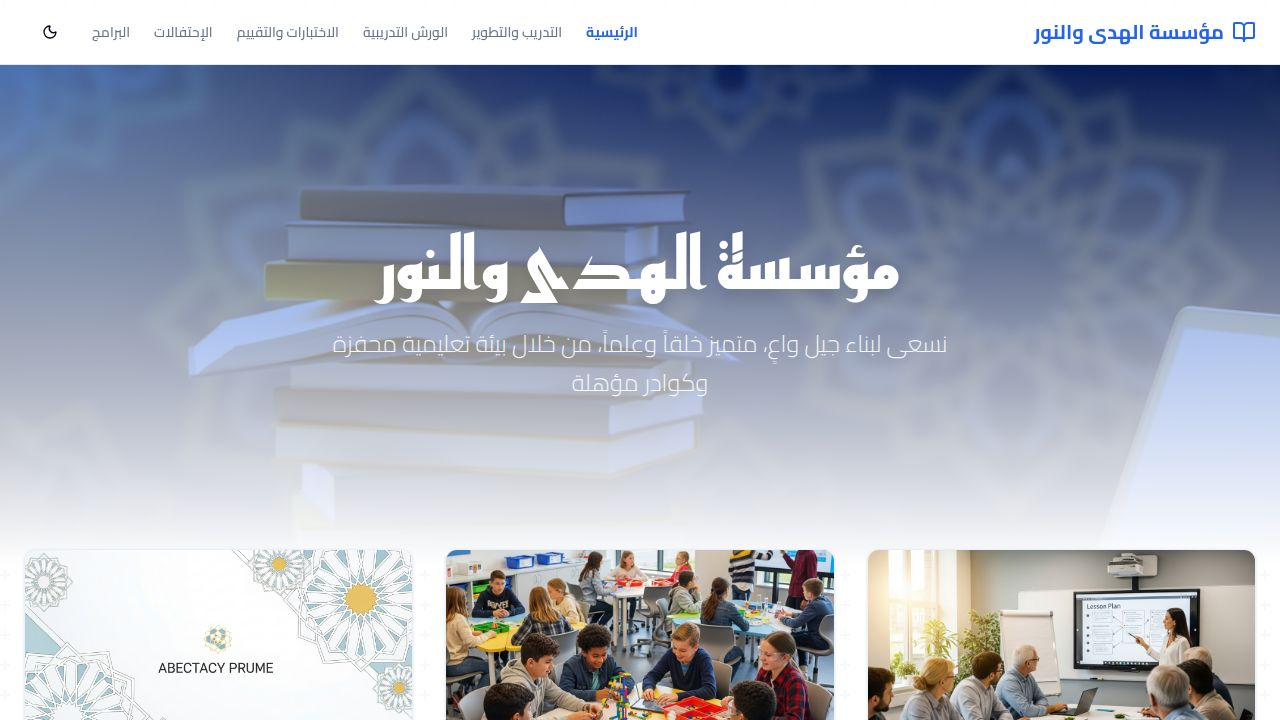
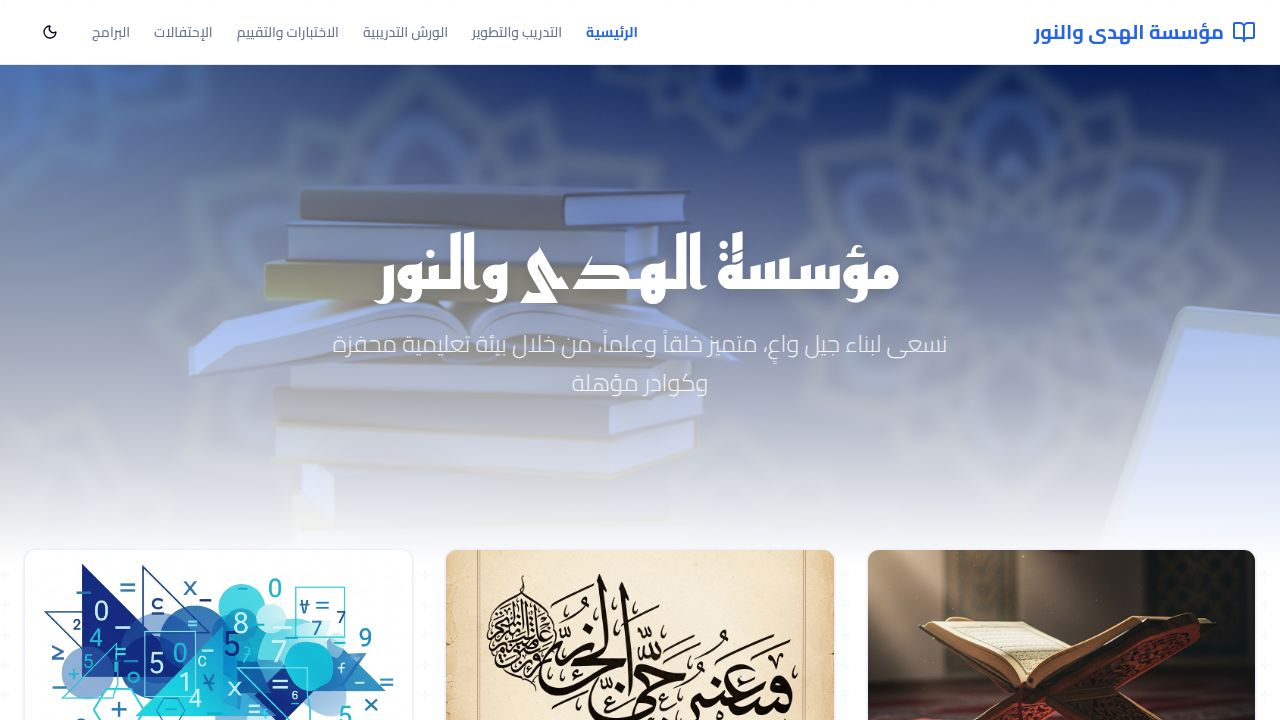
Add new math and English language programs to the website
Introduce new dedicated pages for the Math and English language programs, and integrate them into the homepage and existing programs section.

Replit-Commit-Author: Agent
Replit-Commit-Session-Id: f1f99f2d-2513-4309-bce2-7881e0cd783c
Replit-Commit-Checkpoint-Type: full_checkpoint
Replit-Commit-Event-Id: 9ba4aec5-4840-4cda-b15b-17224bb35dad
Replit-Commit-Screenshot-Url: https://storage.googleapis.com/screenshot-production-us-central1/aac735b9-379b-4b00-9164-096948885b5b/f1f99f2d-2513-4309-bce2-7881e0cd783c/re5x4Rj
Replit-Helium-Checkpoint-Created: true

Changed region(s): [[0.0, 0.7639, 1.0, 1.0]]

diff --git a/client/src/pages/Programs.tsx b/client/src/pages/Programs.tsx
@@ -6,9 +6,42 @@ import { Card, CardContent, CardHeader, CardTitle } from "@/components/ui/card";
 import { ArrowLeft } from "lucide-react";
 import arabicImg from "@assets/generated_images/arabic_calligraphy_art.png";
 import quranImg from "@assets/generated_images/quran_on_a_wooden_stand.png";
+import mathImg from "@assets/generated_images/mathematics_education_background_with_geometric_shapes.png";
+import englishImg from "@assets/generated_images/english_language_education_background_with_books_and_alphabets.png";
 import { WhatsAppButton } from "@/components/WhatsAppButton";
 
 export default function Programs() {
+  const programs = [
+    {
+      title: "برنامج القرآن الكريم",
+      image: quranImg,
+      href: "/programs/quran",
+      description: "حفظ وتلاوة وتدبر القرآن الكريم على يد نخبة من المشايخ والمحفظين.",
+      color: "border-secondary/50"
+    },
+    {
+      title: "برنامج اللغة العربية",
+      image: arabicImg,
+      href: "/programs/arabic",
+      description: "إتقان اللغة العربية قراءة وكتابة وتحدثاً بمنهجية متدرجة وشاملة.",
+      color: "border-primary/50"
+    },
+    {
+      title: "برنامج الرياضيات",
+      image: mathImg,
+      href: "/programs/math",
+      description: "تأسيس منطقي ورياضي قوي يبني عقول الطلاب وينمي مهارات التفكير.",
+      color: "border-primary/50"
+    },
+    {
+      title: "برنامج اللغة الإنجليزية",
+      image: englishImg,
+      href: "/programs/english",
+      description: "إتقان مهارات التواصل باللغة الإنجليزية بطلاقة من خلال مناهج عالمية.",
+      color: "border-secondary/50"
+    }
+  ];
+
   return (
     <div className="min-h-screen flex flex-col bg-background geometric-pattern">
       <Navbar />
@@ -16,68 +49,40 @@ export default function Programs() {
       
       <div className="container px-4 py-20 flex-1 flex flex-col justify-center items-center">
         <div className="text-center mb-16">
-          <h1 className="text-4xl md:text-5xl font-bold text-primary mb-4">برامجنا التعليمية</h1>
+          <h1 className="text-4xl md:text-5xl font-bold text-primary mb-4 font-arabic">برامجنا التعليمية</h1>
           <p className="text-xl text-muted-foreground">اختر البرنامج التعليمي الذي ترغب بالاطلاع عليه</p>
         </div>
 
-        <div className="grid md:grid-cols-2 gap-8 max-w-4xl w-full">
-          {/* Arabic Program */}
-          <Link href="/programs/arabic">
-            <div className="group cursor-pointer">
-              <motion.div 
-                whileHover={{ scale: 1.02 }}
-              >
-                <Card className="overflow-hidden border-2 hover:border-primary/50 transition-colors h-full">
-                  <div className="h-64 overflow-hidden relative">
-                    <img 
-                      src={arabicImg} 
-                      alt="برنامج اللغة العربية" 
-                      className="w-full h-full object-cover transition-transform duration-500 group-hover:scale-110"
-                    />
-                    <div className="absolute inset-0 bg-primary/20 group-hover:bg-primary/10 transition-colors" />
-                  </div>
-                  <CardHeader className="text-center">
-                    <CardTitle className="text-2xl text-primary font-bold">برنامج اللغة العربية</CardTitle>
-                  </CardHeader>
-                  <CardContent className="text-center text-muted-foreground">
-                    <p className="mb-4">إتقان اللغة العربية قراءة وكتابة وتحدثاً بمنهجية متدرجة وشاملة.</p>
-                    <div className="inline-flex items-center text-primary font-bold">
-                      تصفح البرنامج <ArrowLeft className="mr-2 w-4 h-4" />
+        <div className="grid md:grid-cols-2 gap-8 max-w-5xl w-full">
+          {programs.map((program, index) => (
+            <Link key={index} href={program.href}>
+              <div className="group cursor-pointer">
+                <motion.div 
+                  whileHover={{ scale: 1.02 }}
+                >
+                  <Card className={`overflow-hidden border-2 ${program.color} transition-colors h-full`}>
+                    <div className="h-64 overflow-hidden relative">
+                      <img 
+                        src={program.image} 
+                        alt={program.title} 
+                        className="w-full h-full object-cover transition-transform duration-500 group-hover:scale-110"
+                      />
+                      <div className="absolute inset-0 bg-primary/20 group-hover:bg-primary/10 transition-colors" />
                     </div>
-                  </CardContent>
-                </Card>
-              </motion.div>
-            </div>
-          </Link>
-
-          {/* Quran Program */}
-          <Link href="/programs/quran">
-            <div className="group cursor-pointer">
-              <motion.div 
-                whileHover={{ scale: 1.02 }}
-              >
-                <Card className="overflow-hidden border-2 hover:border-secondary/50 transition-colors h-full">
-                  <div className="h-64 overflow-hidden relative">
-                    <img 
-                      src={quranImg} 
-                      alt="برنامج القرآن الكريم" 
-                      className="w-full h-full object-cover transition-transform duration-500 group-hover:scale-110"
-                    />
-                    <div className="absolute inset-0 bg-secondary/20 group-hover:bg-secondary/10 transition-colors" />
-                  </div>
-                  <CardHeader className="text-center">
-                    <CardTitle className="text-2xl text-primary font-bold">برنامج القرآن الكريم</CardTitle>
-                  </CardHeader>
-                  <CardContent className="text-center text-muted-foreground">
-                    <p className="mb-4">حفظ وتلاوة وتدبر القرآن الكريم على يد نخبة من المشايخ والمحفظين.</p>
-                    <div className="inline-flex items-center text-secondary-foreground font-bold">
-                      تصفح البرنامج <ArrowLeft className="mr-2 w-4 h-4" />
-                    </div>
-                  </CardContent>
-                </Card>
-              </motion.div>
-            </div>
-          </Link>
+                    <CardHeader className="text-center">
+                      <CardTitle className="text-2xl text-primary font-bold font-arabic">{program.title}</CardTitle>
+                    </CardHeader>
+                    <CardContent className="text-center text-muted-foreground">
+                      <p className="mb-4">{program.description}</p>
+                      <div className="inline-flex items-center text-primary font-bold">
+                        تصفح البرنامج <ArrowLeft className="mr-2 w-4 h-4" />
+                      </div>
+                    </CardContent>
+                  </Card>
+                </motion.div>
+              </div>
+            </Link>
+          ))}
         </div>
       </div>
 

diff --git a/client/src/pages/EnglishProgram.tsx b/client/src/pages/EnglishProgram.tsx
@@ -1,0 +1,63 @@
+import { Navbar } from "@/components/Navbar";
+import { Footer } from "@/components/Footer";
+import { Languages, MessageSquare, Globe, Sparkles, BookOpen } from "lucide-react";
+import englishHero from "@assets/generated_images/english_language_education_background_with_books_and_alphabets.png";
+import { WhatsAppButton } from "@/components/WhatsAppButton";
+import { motion } from "framer-motion";
+
+export default function EnglishProgram() {
+  const highlights = [
+    { icon: <Languages className="w-6 h-6 text-secondary" />, title: "تحدث بطلاقة", desc: "التركيز على مهارات المحادثة والنطق الصحيح." },
+    { icon: <Globe className="w-6 h-6 text-secondary" />, title: "منهج عالمي", desc: "استخدام مناهج معتمدة دولياً." },
+    { icon: <MessageSquare className="w-6 h-6 text-secondary" />, title: "بيئة تفاعلية", desc: "تواصل مستمر باللغة الإنجليزية داخل الحلقات." }
+  ];
+
+  return (
+    <div className="min-h-screen flex flex-col bg-background">
+      <Navbar />
+      <WhatsAppButton />
+      
+      <div className="relative h-[400px] overflow-hidden">
+        <img src={englishHero} alt="برنامج اللغة الإنجليزية" className="w-full h-full object-cover" />
+        <div className="absolute inset-0 bg-black/60 flex items-center justify-center">
+          <div className="text-center p-4">
+            <h1 className="text-4xl md:text-5xl font-bold text-white mb-4 font-arabic">برنامج اللغة الإنجليزية</h1>
+            <p className="text-xl text-white/90">نافذتك على العالم</p>
+          </div>
+        </div>
+      </div>
+
+      <main className="container px-4 py-16 flex-1">
+        <div className="max-w-4xl mx-auto space-y-12">
+          <section className="bg-card p-8 rounded-3xl border shadow-sm">
+            <h2 className="text-3xl font-bold text-primary mb-6 font-arabic flex items-center gap-3">
+              <Sparkles className="w-8 h-8 text-secondary" />
+              عن برنامج اللغة الإنجليزية
+            </h2>
+            <p className="text-xl leading-relaxed text-muted-foreground">
+              نقدم في مؤسسة الهدى والنور برنامجاً متطوراً لتعليم اللغة الإنجليزية، يجمع بين القواعد الأساسية ومهارات التواصل الحيوي. نهدف إلى تمكين الطالب من التعبير عن نفسه بثقة واقتدار في مختلف المواقف الاجتماعية والأكاديمية.
+            </p>
+          </section>
+
+          <div className="grid md:grid-cols-3 gap-8">
+            {highlights.map((h, i) => (
+              <motion.div 
+                key={i}
+                whileHover={{ y: -5 }}
+                className="bg-secondary/5 p-6 rounded-2xl border border-secondary/10 text-center space-y-4"
+              >
+                <div className="mx-auto w-12 h-12 bg-secondary/10 rounded-full flex items-center justify-center">
+                  {h.icon}
+                </div>
+                <h3 className="text-xl font-bold text-secondary-foreground font-arabic">{h.title}</h3>
+                <p className="text-muted-foreground">{h.desc}</p>
+              </motion.div>
+            ))}
+          </div>
+        </div>
+      </main>
+
+      <Footer />
+    </div>
+  );
+}

diff --git a/client/src/pages/MathProgram.tsx b/client/src/pages/MathProgram.tsx
@@ -1,0 +1,63 @@
+import { Navbar } from "@/components/Navbar";
+import { Footer } from "@/components/Footer";
+import { Calculator, Lightbulb, BookOpen, Star } from "lucide-react";
+import mathHero from "@assets/generated_images/mathematics_education_background_with_geometric_shapes.png";
+import { WhatsAppButton } from "@/components/WhatsAppButton";
+import { motion } from "framer-motion";
+
+export default function MathProgram() {
+  const features = [
+    { icon: <Calculator className="w-6 h-6 text-primary" />, title: "تأسيس منطقي", desc: "بناء التفكير الرياضي والمنطقي من الصغر." },
+    { icon: <Lightbulb className="w-6 h-6 text-primary" />, title: "طرق حديثة", desc: "استخدام أحدث الوسائل التفاعلية في الشرح." },
+    { icon: <Star className="w-6 h-6 text-primary" />, title: "متابعة دقيقة", desc: "تقييم مستمر لمستوى استيعاب الطالب." }
+  ];
+
+  return (
+    <div className="min-h-screen flex flex-col bg-background">
+      <Navbar />
+      <WhatsAppButton />
+      
+      <div className="relative h-[400px] overflow-hidden">
+        <img src={mathHero} alt="برنامج الرياضيات" className="w-full h-full object-cover" />
+        <div className="absolute inset-0 bg-black/60 flex items-center justify-center">
+          <div className="text-center p-4">
+            <h1 className="text-4xl md:text-5xl font-bold text-white mb-4 font-arabic">برنامج الرياضيات</h1>
+            <p className="text-xl text-white/90">نبني العقول وننمي الذكاء</p>
+          </div>
+        </div>
+      </div>
+
+      <main className="container px-4 py-16 flex-1">
+        <div className="max-w-4xl mx-auto space-y-12">
+          <section className="bg-card p-8 rounded-3xl border shadow-sm">
+            <h2 className="text-3xl font-bold text-primary mb-6 font-arabic flex items-center gap-3">
+              <BookOpen className="w-8 h-8" />
+              عن برنامج الرياضيات
+            </h2>
+            <p className="text-xl leading-relaxed text-muted-foreground">
+              نهدف في برنامج الرياضيات بمؤسسة الهدى والنور إلى تحويل مادة الرياضيات من عبء إلى متعة ذهنية، من خلال تبسيط المفاهيم المعقدة وربطها بالواقع العملي، مع التركيز على مهارات الحل السريع والتفكير الإبداعي.
+            </p>
+          </section>
+
+          <div className="grid md:grid-cols-3 gap-8">
+            {features.map((f, i) => (
+              <motion.div 
+                key={i}
+                whileHover={{ y: -5 }}
+                className="bg-primary/5 p-6 rounded-2xl border border-primary/10 text-center space-y-4"
+              >
+                <div className="mx-auto w-12 h-12 bg-primary/10 rounded-full flex items-center justify-center">
+                  {f.icon}
+                </div>
+                <h3 className="text-xl font-bold text-primary font-arabic">{f.title}</h3>
+                <p className="text-muted-foreground">{f.desc}</p>
+              </motion.div>
+            ))}
+          </div>
+        </div>
+      </main>
+
+      <Footer />
+    </div>
+  );
+}

diff --git a/client/src/pages/Home.tsx b/client/src/pages/Home.tsx
@@ -6,10 +6,37 @@ import trainingImg from "@assets/generated_images/professional_teacher_training_
 import workshopsImg from "@assets/generated_images/interactive_educational_workshop.png";
 import testsImg from "@assets/generated_images/modern_islamic_geometric_patterns_background.png";
 import celebrationsImg from "@assets/generated_images/graduation_celebration_or_award_ceremony.png";
-import programsImg from "@assets/generated_images/quran_on_a_wooden_stand.png"; // Using Quran image as representative for programs
+import arabicImg from "@assets/generated_images/arabic_calligraphy_art.png";
+import programsImg from "@assets/generated_images/quran_on_a_wooden_stand.png"; 
+import mathImg from "@assets/generated_images/mathematics_education_background_with_geometric_shapes.png";
+import englishImg from "@assets/generated_images/english_language_education_background_with_books_and_alphabets.png";
 
 export default function Home() {
   const sections = [
+    {
+      title: "برنامج القرآن الكريم",
+      image: programsImg,
+      href: "/programs/quran",
+      description: "حفظ وتلاوة وتدبر القرآن الكريم على يد نخبة من المشايخ والمحفظين لبناء جيل قرآني متقن."
+    },
+    {
+      title: "برنامج اللغة العربية",
+      image: arabicImg, // Wait, need to check if arabicImg is imported
+      href: "/programs/arabic",
+      description: "إتقان اللغة العربية قراءة وكتابة وتحدثاً بمنهجية متدرجة وشاملة لغرس حب لغة الضاد."
+    },
+    {
+      title: "برنامج الرياضيات",
+      image: mathImg,
+      href: "/programs/math",
+      description: "تأسيس منطقي ورياضي قوي يبني عقول الطلاب وينمي مهارات التفكير الإبداعي والحل السريع."
+    },
+    {
+      title: "برنامج اللغة الإنجليزية",
+      image: englishImg,
+      href: "/programs/english",
+      description: "إتقان مهارات التواصل باللغة الإنجليزية بطلاقة من خلال مناهج عالمية وبيئة تعليمية تفاعلية."
+    },
     {
       title: "التدريب والتطوير",
       image: trainingImg,
@@ -38,7 +65,7 @@ export default function Home() {
       title: "البرامج",
       image: programsImg,
       href: "/programs",
-      description: "برامج تعليمية متخصصة تشمل اللغة العربية والقرآن الكريم لبناء جيل قرآني متقن."
+      description: "استعرض كافة برامجنا التعليمية المتخصصة في مكان واحد."
     }
   ];
 

diff --git a/client/src/App.tsx b/client/src/App.tsx
@@ -11,6 +11,8 @@ import Celebrations from "@/pages/Celebrations";
 import Programs from "@/pages/Programs";
 import ArabicProgram from "@/pages/ArabicProgram";
 import QuranProgram from "@/pages/QuranProgram";
+import MathProgram from "@/pages/MathProgram";
+import EnglishProgram from "@/pages/EnglishProgram";
 import { ScrollToTop } from "@/components/ScrollToTop";
 import { FloatingHomeButton } from "@/components/FloatingHomeButton";
 
@@ -28,6 +30,8 @@ function Router() {
         <Route path="/programs" component={Programs} />
         <Route path="/programs/arabic" component={ArabicProgram} />
         <Route path="/programs/quran" component={QuranProgram} />
+        <Route path="/programs/math" component={MathProgram} />
+        <Route path="/programs/english" component={EnglishProgram} />
         <Route component={NotFound} />
       </Switch>
     </>
